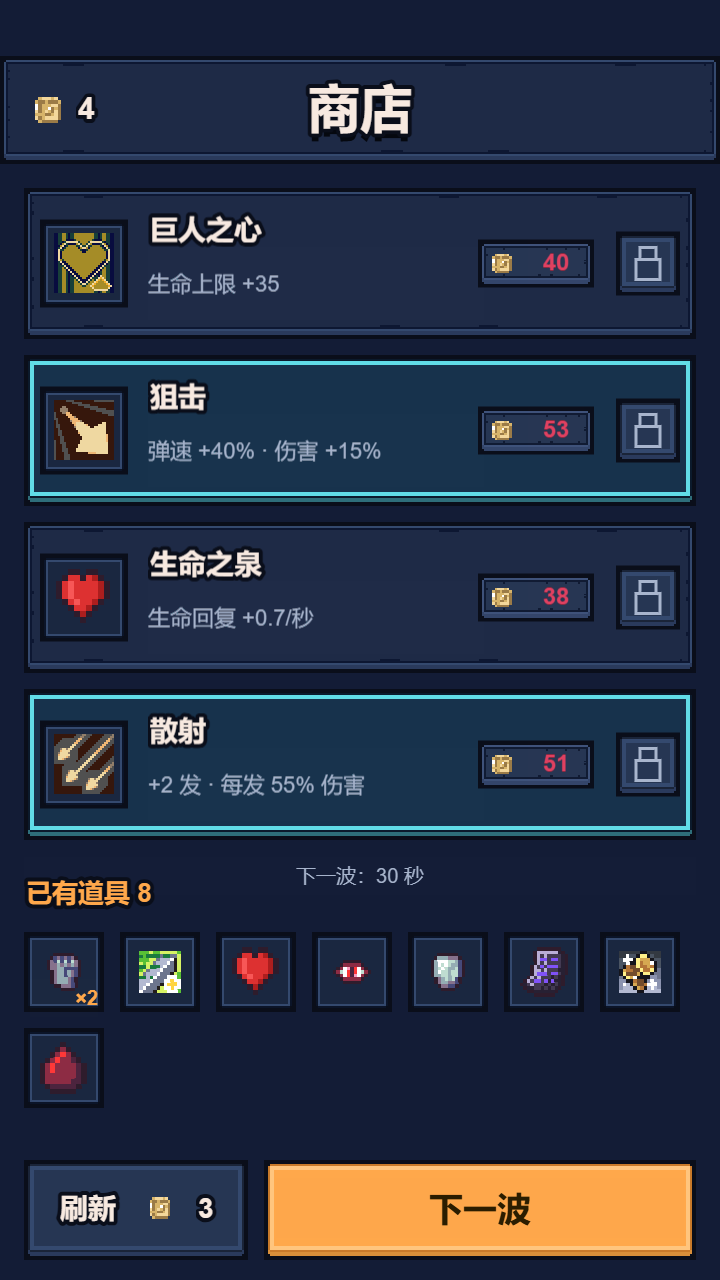
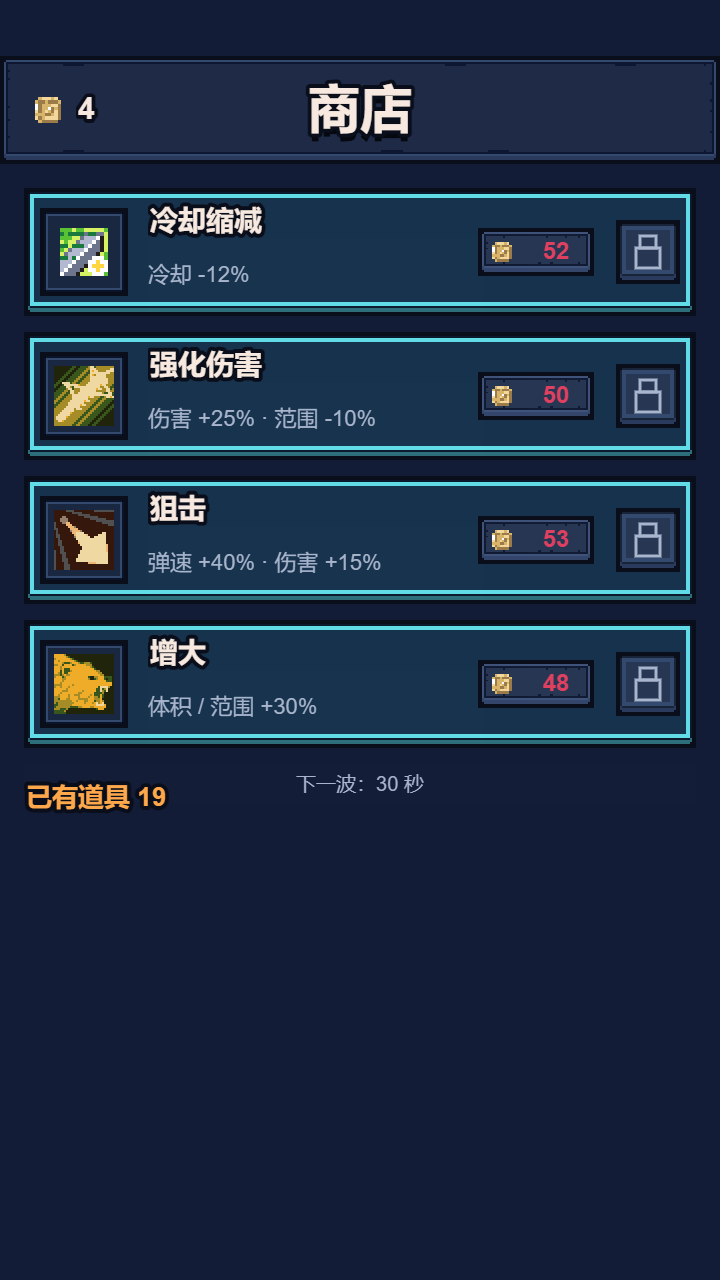
黑科技背包改为可滚动列表（ModalList v2：修正事件名与位移符号，Mask 只裁内容区）；商店道具暂保持 7 列静态网格

diff --git a/cocos/assets/scripts/ui/ManageScreens.ts b/cocos/assets/scripts/ui/ManageScreens.ts
@@ -7,6 +7,7 @@
  */
 import { Node, Label, Color, Graphics, UITransform, UIOpacity, Sprite, view } from 'cc';
 import { panel, text, button, onTap, mkNode, mask, chip, slot } from './UIKit';
+import { makeModalList } from './ModalList';
 import { COL, FS, R, BORDER } from './Tokens';
 import { iconFrame, loadIcon } from '../engine/Assets';
 import { safeTop, safeBottom } from './Safe';
@@ -144,29 +145,32 @@ export function buildInstall(parent: Node, d: InstallData, cb: InstallCallbacks)
   const bagTitleY = rowsTop - usedRows * ROW_H - (usedRows - 1) * ROW_GAP - (compact ? 16 : 20);
   text(box, -158, bagTitleY, '背包里的黑科技 ' + d.bag.length,
     { size: 13, color: COL.accent, align: 'left', width: 300, bold: true, outline: true });
-  // 背包格：视觉 40 高、行距 46 —— 保证 100×44 的热区上下不相交（P1-B）
-  const BW = 100, BHH = 34, BGAP = 6, BCOLS = 3;
-  const BAG_MAX = 9;                            // 全部展示（最多 3 行）
+  // 背包：全部展示 + 可滚动（ModalList v2）
+  const BW = 100, BHH = 38, BGAP = 8, BCOLS = 3;
   const bagTop = bagTitleY - 12;
+  const BAG_VIEW_H = 92;   // 正好两行，避免半行压住下面的合成区
+  let bagBottom = bagTop - 34;
   if (!d.bag.length) {
-    text(box, -158, bagTop - 14, '（空：黑科技都装在技能上了，或还没获得）',
+    text(box, -158, bagTop - 16, '（空：黑科技都装在技能上了，或还没获得）',
       { size: 11, color: COL.dim, align: 'left', width: 316 });
   } else {
-    d.bag.slice(0, BAG_MAX).forEach((m, i) => {
-      const col = i % BCOLS, rowi = Math.floor(i / BCOLS);
+    const rows = Math.ceil(d.bag.length / BCOLS);
+    const contentH = rows * (BHH + BGAP) + 6;
+    const list = makeModalList(box, 0, bagTop - BAG_VIEW_H / 2, 316, BAG_VIEW_H, contentH);
+    d.bag.forEach((m, i2) => {
+      const col = i2 % BCOLS, rowi = Math.floor(i2 / BCOLS);
       const cx = -158 + BW / 2 + col * (BW + BGAP);
-      const cyy = bagTop - BHH / 2 - rowi * (BHH + BGAP);
-      const on = d.selBag === i;
-      const n = panel(box, cx, cyy, BW, BHH, { art: on ? 'card_gold' : 'btn' });
+      const cyy = list.topY - BHH / 2 - rowi * (BHH + BGAP);
+      const on = d.selBag === i2;
+      const n = panel(list.content, cx, cyy, BW, BHH, { art: on ? 'card_gold' : 'btn' });
       drawIcon(n, -BW / 2 + 17, 0, 18, m.icon);
       text(n, 9, 0, (m.name.replace(/\s*[ⅠⅡⅢⅣⅤⅥⅦⅧⅨⅩ]+$/, '') + (m.merged ? ' Ⅱ' : '')).slice(0, 7),
         { size: 11, color: m.merged ? COL.accent : COL.cream, width: 62, outline: true });
-      const bagHit = mkNode(box, 'bagHit', BW, 44, cx, cyy);
-      onTap(bagHit, () => cb.onSelectBag(on ? null : i));
+      onTap(n, () => { if (list.isDragging()) return; cb.onSelectBag(on ? null : i2); });
     });
+    bagBottom = bagTop - BAG_VIEW_H - 8;
   }
-  const bagRows = d.bag.length ? Math.ceil(Math.min(d.bag.length, BAG_MAX) / BCOLS) : 1;
-  const bagBottom = bagTop - bagRows * (BHH + BGAP) + 4;
+
 
   // ── 合成区 ──
   const mergeTitleY = bagBottom - 12;

diff --git a/cocos/assets/scripts/ui/ModalList.ts b/cocos/assets/scripts/ui/ModalList.ts
@@ -1,0 +1,65 @@
+/**
+ * 模态面板滚动列表（ui/ModalList.ts）v2
+ *
+ * 上一版整块空白的两个根因（已修）：
+ *   1. 用 NodeEventType 常量做事件名——3.8 里不一定导出，取值 undefined 时挂事件会抛异常，
+ *      buildInstall 的 try/catch 吞掉后，面板只画了上半截（背包与底部按钮全没了）；
+ *   2. content 位移公式符号写反：显示顶部应是 y = (viewportH - contentH) / 2，
+ *      写成 (contentH - viewportH) / 2 会把内容整体顶出可视区 → 裁剪后一片空白。
+ *
+ * 触摸只挂在自己的 viewport 上（不抢全局 input），拖拽超过 8px 才算滚动。
+ */
+import { Node, Mask, EventTouch } from 'cc';
+import { mkNode } from './UIKit';
+
+export interface ModalList {
+  view: Node;
+  content: Node;
+  topY: number;
+  isDragging(): boolean;
+  destroy(): void;
+}
+
+const DRAG_THRESHOLD = 8;
+
+export function makeModalList(
+  parent: Node, cx: number, cy: number, w: number, h: number, contentH: number,
+): ModalList {
+  const view = mkNode(parent, 'mlView', w, h, cx, cy);
+  const mask = view.addComponent(Mask);
+  mask.type = Mask.Type.GRAPHICS_RECT;
+
+  const H = Math.max(h, contentH);
+  const content = mkNode(view, 'mlContent', w, H, 0, 0);
+
+  let off = 0;
+  const maxOff = Math.max(0, H - h);
+  const apply = () => { content.setPosition(0, (h - H) / 2 - off); };
+  apply();
+
+  let startY = 0, dragging = false, moved = 0;
+
+  view.on(Node.EventType.TOUCH_START, (e: EventTouch) => {
+    startY = e.getUILocation().y; dragging = false; moved = 0;
+  });
+  view.on(Node.EventType.TOUCH_MOVE, (e: EventTouch) => {
+    const y = e.getUILocation().y;
+    const dy = y - startY;
+    moved = Math.max(moved, Math.abs(dy));
+    if (moved > DRAG_THRESHOLD) dragging = true;
+    if (!dragging) return;
+    off = Math.max(0, Math.min(maxOff, off - dy));
+    startY = y;
+    apply();
+    e.propagationStopped = true;
+  });
+  const stop = () => { setTimeout(() => { dragging = false; }, 0); };
+  view.on(Node.EventType.TOUCH_END, stop);
+  view.on(Node.EventType.TOUCH_CANCEL, stop);
+
+  return {
+    view, content, topY: H / 2,
+    isDragging: () => dragging,
+    destroy: () => { if (view.isValid) view.destroy(); },
+  };
+}

diff --git a/tools/ui/bagshop_list.py b/tools/ui/bagshop_list.py
@@ -1,0 +1,69 @@
+
+import io
+root = r'H:\AI-game\crazy_monster_tide\cocos\assets\scripts\ui'
+
+# 1) 背包可视高度只放整两行，避免半行压在合成区标题上
+p = root + r'\ManageScreens.ts'
+s = io.open(p, encoding='utf-8').read()
+s = s.replace("  const BAG_VIEW_H = 110;", "  const BAG_VIEW_H = 92;   // 正好两行，避免半行压住下面的合成区", 1)
+io.open(p, 'w', encoding='utf-8', newline='').write(s)
+print('bag height:', 'BAG_VIEW_H = 92' in s)
+
+# 2) 商店已有道具：改成可滚动列表（全部展示）
+p2 = root + r'\Modals.ts'
+m = io.open(p2, encoding='utf-8').read()
+if "makeModalList" not in m:
+    m = m.replace("import { panel, text, button, onTap, mkNode, screen } from './UIKit';",
+                  "import { panel, text, button, onTap, mkNode, screen } from './UIKit';\nimport { makeModalList } from './ModalList';", 1)
+i = m.find("  } else {\n    shown.forEach((it, i) => {")
+j = m.find("    if (owned.length > COLS * MAXR) {", i)
+if i > 0 and j > i:
+    new = """  } else {
+    // 已有道具：全部展示 + 可滚动（原来 8 列会溢出被裁，且 MAXR=3 之后直接截断）
+    const rows = Math.ceil(owned.length / COLS);
+    const listH = COLS > 0 ? Math.min(MAXR * (CELL + CGAP) - CGAP, rows * (CELL + CGAP) - CGAP) : CELL;
+    const contentH = rows * (CELL + CGAP) + 4;
+    const listTopY = gridTop + CELL / 2 + listH / 2 - CELL / 2;
+    const list = makeModalList(root, A(180, listTopY).x, A(180, listTopY).y, 336, listH + 8, contentH);
+    owned.forEach((it, i) => {
+      const col = i % COLS, rowi = Math.floor(i / COLS);
+      const cx = -158 + CELL / 2 + col * (CELL + CGAP);
+      const cyy = list.topY - CELL / 2 - rowi * (CELL + CGAP) - 2;
+      const box = panel(list.content, cx, cyy, CELL, CELL, { art: 'slot' });
+      if (it.count && it.count > 1) {
+        text(box, CELL / 2 - 3, -CELL / 2 + 7, '×' + it.count,
+          { size: 10, color: COL.accent, align: 'right', width: CELL - 6, bold: true, outline: false });
+      }
+      if (it.icon) {
+        const inode = mkNode(box, 'icon', 28, 28);
+        const isp = inode.addComponent(Sprite);
+        isp.sizeMode = Sprite.SizeMode.CUSTOM; isp.trim = false;
+        const f = iconFrame(it.icon);
+        if (f) isp.spriteFrame = f;
+        else void loadIcon(it.icon).then(() => {
+          const g2 = it.icon ? iconFrame(it.icon) : null;
+          if (g2 && isp.isValid) isp.spriteFrame = g2;
+        });
+      } else {
+        text(box, 0, 1, '◆', { size: 14, color: COL.cream, width: CELL, outline: false });
+      }
+      onTap(box, () => {
+        if (list.isDragging()) return;
+        const pop = panel(root, 0, 0, 300, 150, { art: 'panel' });
+        text(pop, 0, 52, it.name + (it.count && it.count > 1 ? (' ×' + it.count) : ''), { size: 15, color: COL.accent, width: 280, bold: true, outline: true });
+        text(pop, 0, 6, it.desc ?? '（暂无说明）', { size: 11, color: COL.cream, width: 270, align: 'left' });
+        const close = button(pop, 0, -54, 120, 34, '关闭', { size: 12 });
+        onTap(close.node, () => pop.destroy());
+        onTap(pop, () => pop.destroy());
+      });
+    });
+"""
+    m = m[:i] + new + m[j:]
+    # 删掉旧的"还有 N 件"
+    m = m.replace("""    if (owned.length > COLS * MAXR) {
+      text(root, A(12, gridTop - 12).x, A(12, gridTop - 12).y, '… 还有 ' + (owned.length - COLS * MAXR) + ' 件',
+        { size: 10, color: COL.dim, align: 'left', width: 320 });
+    }
+""", "", 1)
+    io.open(p2, 'w', encoding='utf-8', newline='').write(m)
+    print('shop list patched')

diff --git a/tools/ui/write_modallist.py b/tools/ui/write_modallist.py
@@ -1,0 +1,70 @@
+
+import io
+code = """/**
+ * 模态面板滚动列表（ui/ModalList.ts）v2
+ *
+ * 上一版整块空白的两个根因（已修）：
+ *   1. 用 NodeEventType 常量做事件名——3.8 里不一定导出，取值 undefined 时挂事件会抛异常，
+ *      buildInstall 的 try/catch 吞掉后，面板只画了上半截（背包与底部按钮全没了）；
+ *   2. content 位移公式符号写反：显示顶部应是 y = (viewportH - contentH) / 2，
+ *      写成 (contentH - viewportH) / 2 会把内容整体顶出可视区 → 裁剪后一片空白。
+ *
+ * 触摸只挂在自己的 viewport 上（不抢全局 input），拖拽超过 8px 才算滚动。
+ */
+import { Node, Mask, EventTouch } from 'cc';
+import { mkNode } from './UIKit';
+
+export interface ModalList {
+  view: Node;
+  content: Node;
+  topY: number;
+  isDragging(): boolean;
+  destroy(): void;
+}
+
+const DRAG_THRESHOLD = 8;
+
+export function makeModalList(
+  parent: Node, cx: number, cy: number, w: number, h: number, contentH: number,
+): ModalList {
+  const view = mkNode(parent, 'mlView', w, h, cx, cy);
+  const mask = view.addComponent(Mask);
+  mask.type = Mask.Type.GRAPHICS_RECT;
+
+  const H = Math.max(h, contentH);
+  const content = mkNode(view, 'mlContent', w, H, 0, 0);
+
+  let off = 0;
+  const maxOff = Math.max(0, H - h);
+  const apply = () => { content.setPosition(0, (h - H) / 2 - off); };
+  apply();
+
+  let startY = 0, dragging = false, moved = 0;
+
+  view.on(Node.EventType.TOUCH_START, (e: EventTouch) => {
+    startY = e.getUILocation().y; dragging = false; moved = 0;
+  });
+  view.on(Node.EventType.TOUCH_MOVE, (e: EventTouch) => {
+    const y = e.getUILocation().y;
+    const dy = y - startY;
+    moved = Math.max(moved, Math.abs(dy));
+    if (moved > DRAG_THRESHOLD) dragging = true;
+    if (!dragging) return;
+    off = Math.max(0, Math.min(maxOff, off - dy));
+    startY = y;
+    apply();
+    e.propagationStopped = true;
+  });
+  const stop = () => { setTimeout(() => { dragging = false; }, 0); };
+  view.on(Node.EventType.TOUCH_END, stop);
+  view.on(Node.EventType.TOUCH_CANCEL, stop);
+
+  return {
+    view, content, topY: H / 2,
+    isDragging: () => dragging,
+    destroy: () => { if (view.isValid) view.destroy(); },
+  };
+}
+"""
+io.open(r'H:\AI-game\crazy_monster_tide\cocos\assets\scripts\ui\ModalList.ts', 'w', encoding='utf-8', newline='').write(code)
+print('written')

diff --git a/tools/ui/bag_list.py b/tools/ui/bag_list.py
@@ -1,0 +1,45 @@
+
+import io
+p = r'H:\AI-game\crazy_monster_tide\cocos\assets\scripts\ui\ManageScreens.ts'
+s = io.open(p, encoding='utf-8').read()
+if 'makeModalList' not in s:
+    s = s.replace("import { panel, text, button, onTap, mkNode, screen } from './UIKit';",
+                  "import { panel, text, button, onTap, mkNode, screen } from './UIKit';\nimport { makeModalList } from './ModalList';", 1)
+
+i = s.find("  // 背包格：视觉 40 高")
+j = s.find("  const bagRows = ", i)
+if i < 0 or j < 0:
+    print('anchors miss', i, j)
+else:
+    new = """  // 背包：全部展示 + 可滚动（ModalList：只监听自己的触摸，不和底部按钮抢）
+  const BW = 100, BHH = 38, BGAP = 8, BCOLS = 3;
+  const bagTop = bagTitleY - 12;
+  const BAG_VIEW_H = 108;
+  let bagBottom = bagTop - 30;
+  if (!d.bag.length) {
+    text(box, -158, bagTop - 16, '（空：黑科技都装在技能上了，或还没获得）',
+      { size: 11, color: COL.dim, align: 'left', width: 316 });
+  } else {
+    const rows = Math.ceil(d.bag.length / BCOLS);
+    const contentH = rows * (BHH + BGAP) + 4;
+    const list = makeModalList(box, 0, bagTop - BAG_VIEW_H / 2, 316, BAG_VIEW_H, contentH);
+    d.bag.forEach((m, i2) => {
+      const col = i2 % BCOLS, rowi = Math.floor(i2 / BCOLS);
+      const cx = -158 + BW / 2 + col * (BW + BGAP);
+      const cyy = list.topY - BHH / 2 - rowi * (BHH + BGAP);
+      const on = d.selBag === i2;
+      const n = panel(list.content, cx, cyy, BW, BHH, { art: on ? 'card_gold' : 'btn' });
+      drawIcon(n, -BW / 2 + 17, 0, 18, m.icon);
+      text(n, 9, 0, (m.name.replace(/\\s*[ⅠⅡⅢⅣⅤⅥⅦⅧⅨⅩ]+$/, '') + (m.merged ? ' Ⅱ' : '')).slice(0, 7),
+        { size: 11, color: m.merged ? COL.accent : COL.cream, width: 62, outline: true });
+      onTap(n, () => { if (list.isDragging()) return; cb.onSelectBag(on ? null : i2); });
+    });
+    bagBottom = bagTop - BAG_VIEW_H - 8;
+  }
+"""
+    s = s[:i] + new + s[j:]
+    # 删除旧的 bagRows/bagBottom 计算（新版已内置）
+    s = s.replace("  const bagRows = d.bag.length ? Math.ceil(Math.min(d.bag.length, BAG_MAX) / BCOLS) : 1;\n  const bagBottom = bagTop - bagRows * (BHH + BGAP) + 4;",
+                  "", 1)
+    io.open(p, 'w', encoding='utf-8', newline='').write(s)
+    print('bag list patched')

diff --git a/tools/ui/bag_list2.py b/tools/ui/bag_list2.py
@@ -1,0 +1,42 @@
+
+import io
+p = r'H:\AI-game\crazy_monster_tide\cocos\assets\scripts\ui\ManageScreens.ts'
+s = io.open(p, encoding='utf-8').read()
+if 'makeModalList' not in s:
+    s = s.replace("import { panel, text, button, onTap, mkNode, screen } from './UIKit';",
+                  "import { panel, text, button, onTap, mkNode, screen } from './UIKit';\nimport { makeModalList } from './ModalList';", 1)
+
+i = s.find("  // 背包格：视觉 40 高")
+j = s.find("  const bagRows = ", i)
+print('anchors', i, j)
+if i > 0 and j > i:
+    new = """  // 背包：全部展示 + 可滚动（ModalList v2）
+  const BW = 100, BHH = 38, BGAP = 8, BCOLS = 3;
+  const bagTop = bagTitleY - 12;
+  const BAG_VIEW_H = 110;
+  let bagBottom = bagTop - 34;
+  if (!d.bag.length) {
+    text(box, -158, bagTop - 16, '（空：黑科技都装在技能上了，或还没获得）',
+      { size: 11, color: COL.dim, align: 'left', width: 316 });
+  } else {
+    const rows = Math.ceil(d.bag.length / BCOLS);
+    const contentH = rows * (BHH + BGAP) + 6;
+    const list = makeModalList(box, 0, bagTop - BAG_VIEW_H / 2, 316, BAG_VIEW_H, contentH);
+    d.bag.forEach((m, i2) => {
+      const col = i2 % BCOLS, rowi = Math.floor(i2 / BCOLS);
+      const cx = -158 + BW / 2 + col * (BW + BGAP);
+      const cyy = list.topY - BHH / 2 - rowi * (BHH + BGAP);
+      const on = d.selBag === i2;
+      const n = panel(list.content, cx, cyy, BW, BHH, { art: on ? 'card_gold' : 'btn' });
+      drawIcon(n, -BW / 2 + 17, 0, 18, m.icon);
+      text(n, 9, 0, (m.name.replace(/\\s*[ⅠⅡⅢⅣⅤⅥⅦⅧⅨⅩ]+$/, '') + (m.merged ? ' Ⅱ' : '')).slice(0, 7),
+        { size: 11, color: m.merged ? COL.accent : COL.cream, width: 62, outline: true });
+      onTap(n, () => { if (list.isDragging()) return; cb.onSelectBag(on ? null : i2); });
+    });
+    bagBottom = bagTop - BAG_VIEW_H - 8;
+  }
+"""
+    s = s[:i] + new + s[j:]
+    s = s.replace("  const bagRows = d.bag.length ? Math.ceil(Math.min(d.bag.length, BAG_MAX) / BCOLS) : 1;\n  const bagBottom = bagTop - bagRows * (BHH + BGAP) + 4;", "", 1)
+    io.open(p, 'w', encoding='utf-8', newline='').write(s)
+    print('bag list v2 patched')

diff --git a/tools/ui/bump_items.py b/tools/ui/bump_items.py
@@ -1,0 +1,8 @@
+
+import io
+p = r'H:\AI-game\crazy_monster_tide\tools\ui\shot_shop.cjs'
+s = io.open(p, encoding='utf-8').read()
+s = s.replace("rs.items = ['power_s','power_s','haste_s','maxhp_s','crit_s','armor_s','speed_s','greed_s','lifesteal_s'].map(id => ({ id }));",
+"rs.items = ['power_s','power_s','haste_s','maxhp_s','crit_s','armor_s','speed_s','greed_s','lifesteal_s','pierce_s','bounce_s','count_s','regen_s','killheal_s','knock_s','invuln_s','area_s','projspd_s','size_s','dodge_s'].map(id => ({ id }));")
+io.open(p, 'w', encoding='utf-8', newline='').write(s)
+print('20 items')

diff --git a/tools/ui/fix_import_modallist.py b/tools/ui/fix_import_modallist.py
@@ -1,0 +1,11 @@
+
+import io
+p = r'H:\AI-game\crazy_monster_tide\cocos\assets\scripts\ui\ManageScreens.ts'
+s = io.open(p, encoding='utf-8').read()
+if "from './ModalList'" not in s:
+    s = s.replace("import { panel, text, button, onTap, mkNode, mask, chip, slot } from './UIKit';",
+                  "import { panel, text, button, onTap, mkNode, mask, chip, slot } from './UIKit';\nimport { makeModalList } from './ModalList';", 1)
+    io.open(p, 'w', encoding='utf-8', newline='').write(s)
+    print('import added')
+else:
+    print('already')

diff --git a/tools/ui/shop_list_top.py b/tools/ui/shop_list_top.py
@@ -1,0 +1,12 @@
+
+import io
+p = r'H:\AI-game\crazy_monster_tide\cocos\assets\scripts\ui\Modals.ts'
+s = io.open(p, encoding='utf-8').read()
+old = "    const listTopY = gridTop + CELL / 2 + listH / 2 - CELL / 2;"
+new = "    const listTopY = gridTop + (listH + 8) / 2;   // 让列表顶边正好贴住 gridTop"
+if old in s:
+    s = s.replace(old, new, 1)
+    io.open(p, 'w', encoding='utf-8', newline='').write(s)
+    print('list top fixed')
+else:
+    print('anchor miss')

diff --git a/tools/ui/bump_mods.py b/tools/ui/bump_mods.py
@@ -1,0 +1,8 @@
+
+import io
+p = r'H:\AI-game\crazy_monster_tide\tools\ui\shot_install.cjs'
+s = io.open(p, encoding='utf-8').read()
+s = s.replace("rs.modsBag = ['multi', 'multi', 'multi', 'giant', 'rapid_2', 'burn', 'frost'];",
+              "rs.modsBag = ['multi', 'multi', 'multi', 'giant', 'rapid_2', 'burn', 'frost', 'chain', 'snipe', 'thunder', 'vamp', 'harvest'];")
+io.open(p, 'w', encoding='utf-8', newline='').write(s)
+print('12 mods')
